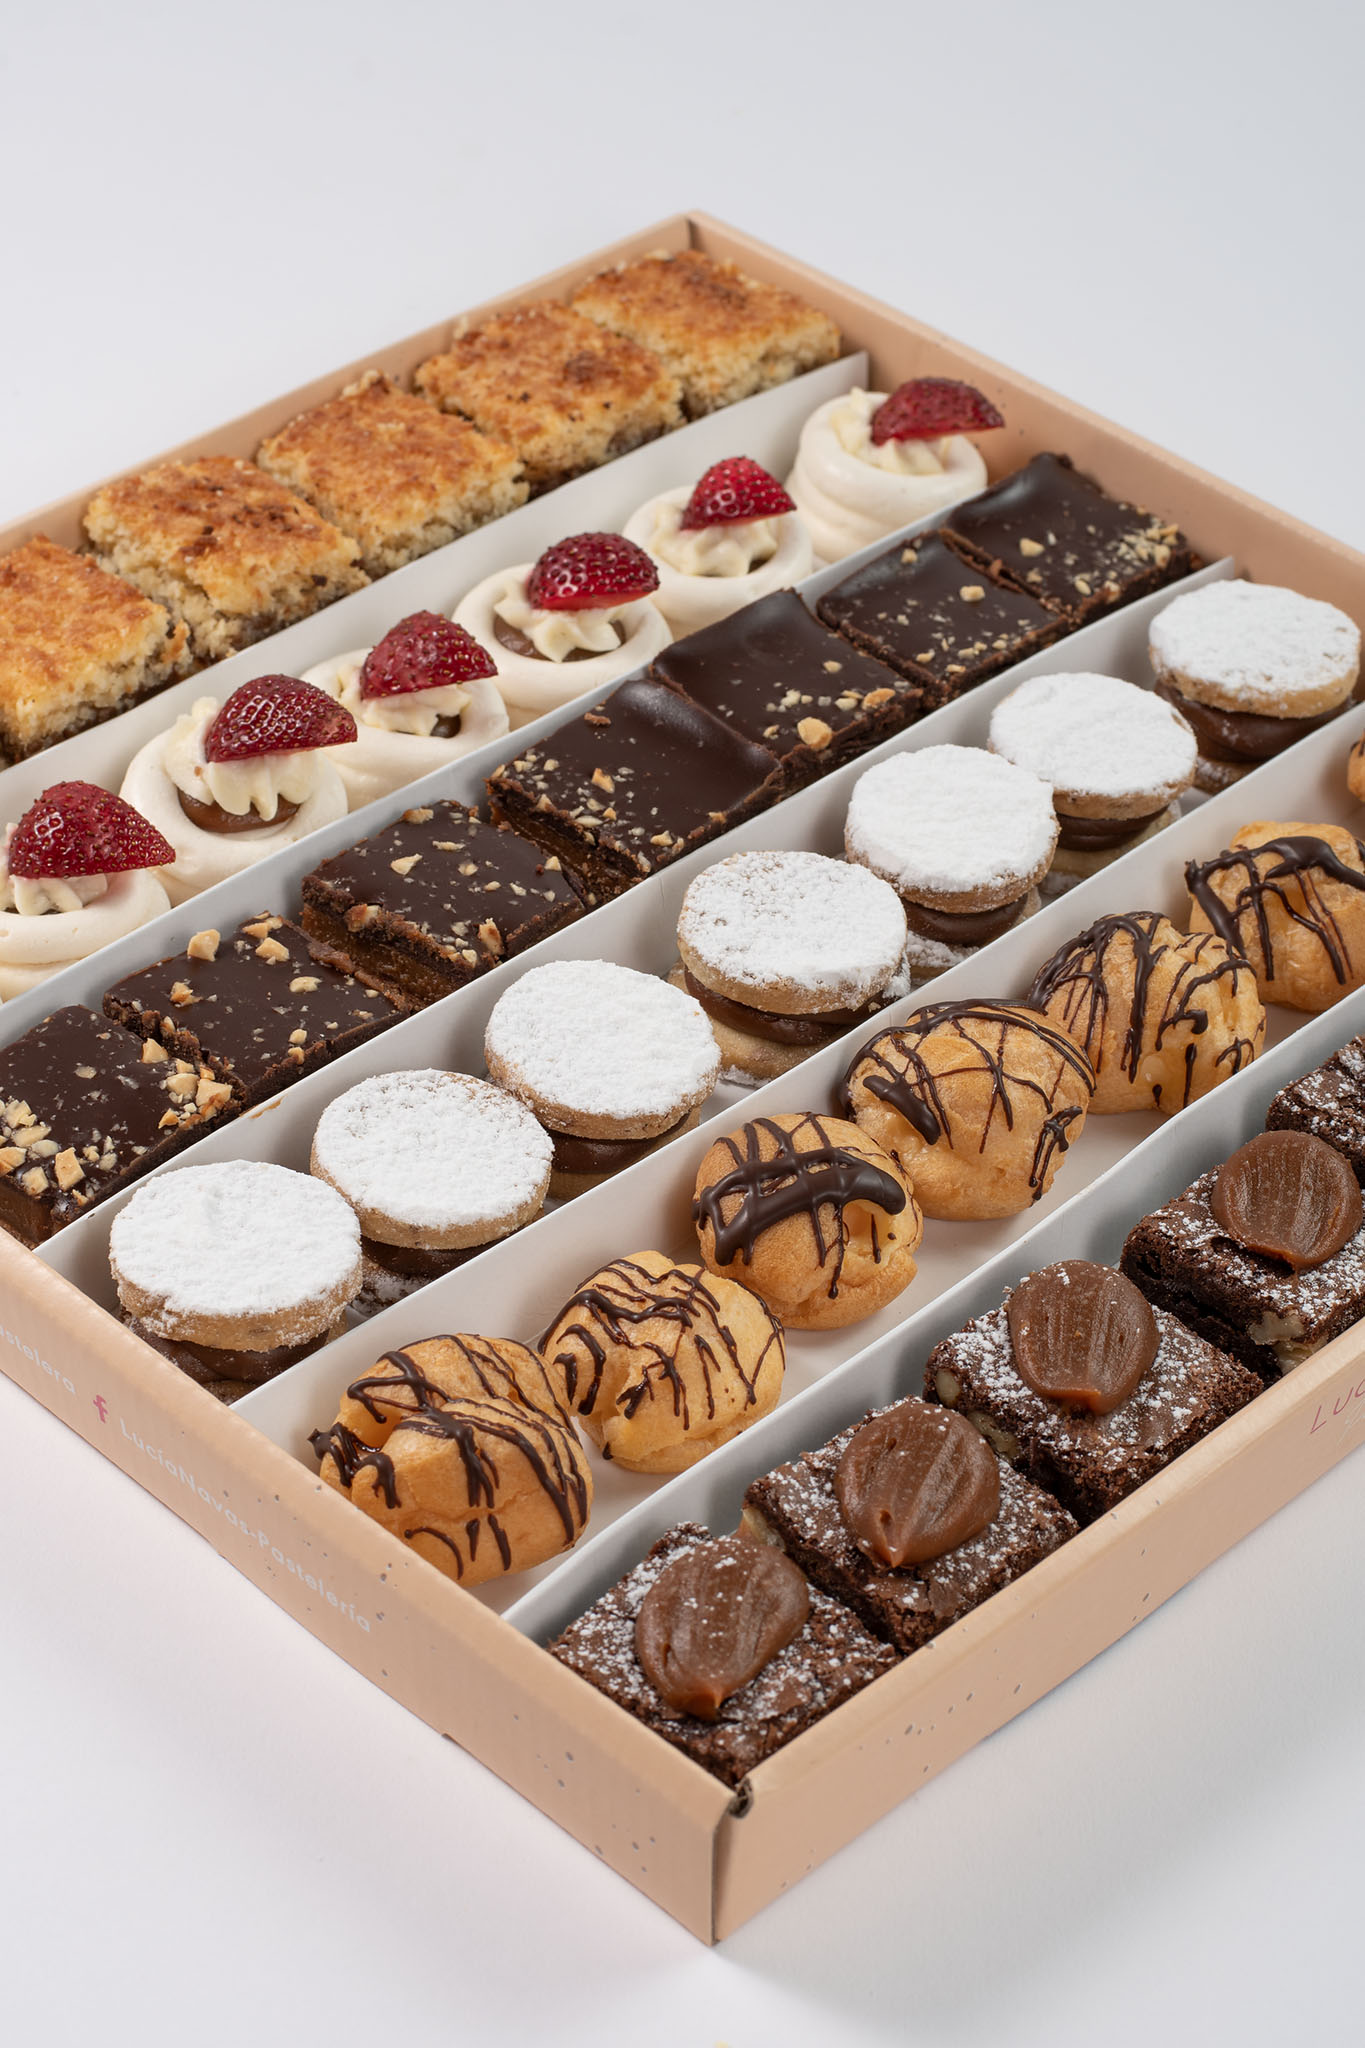
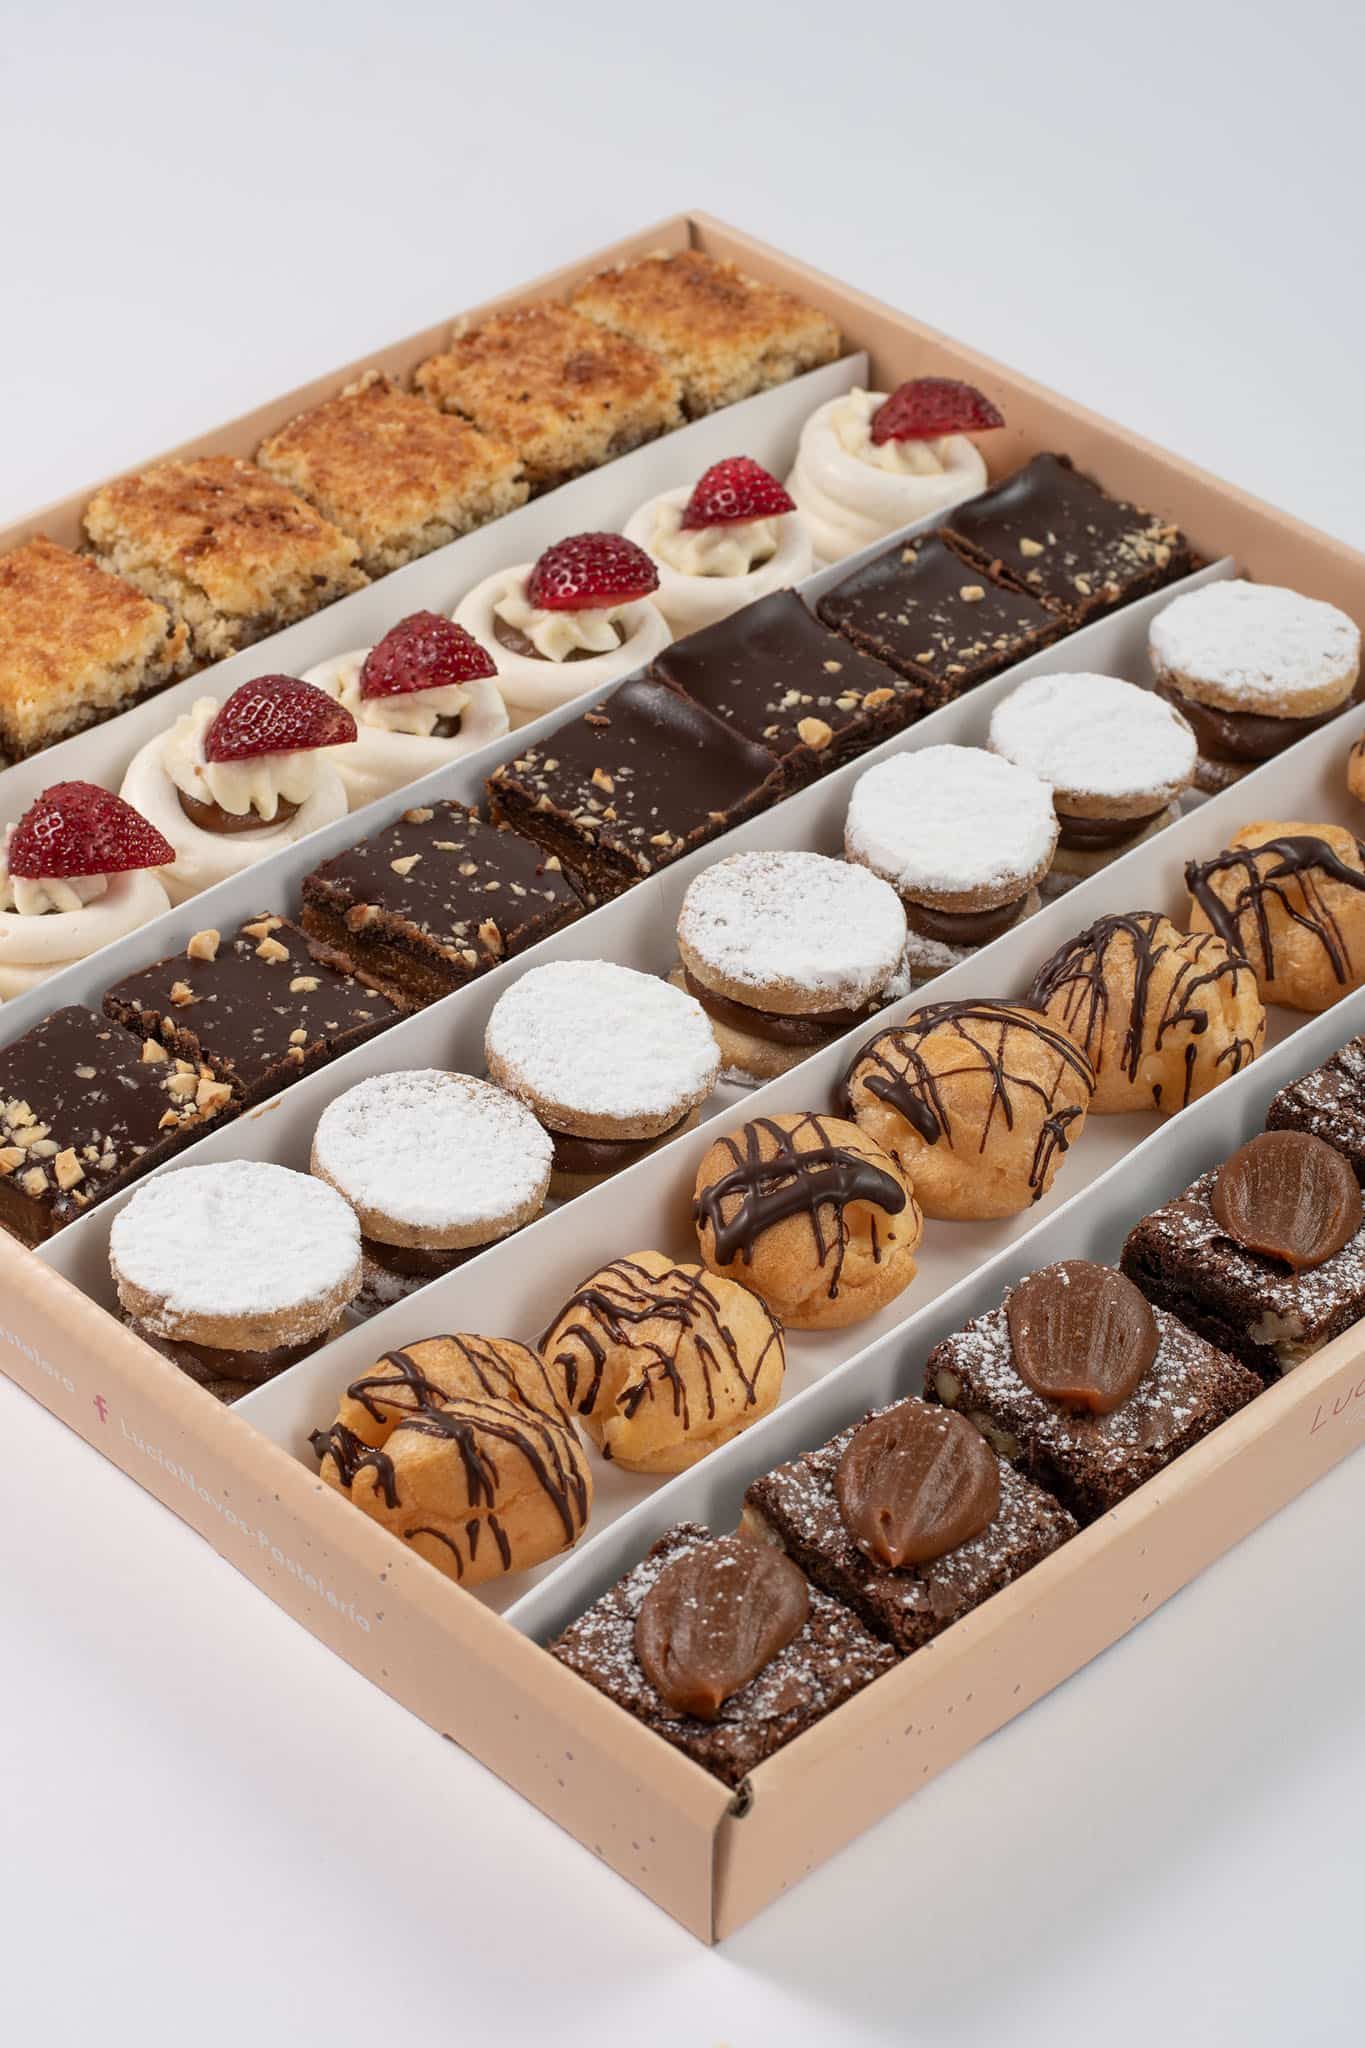
bajando peso a las imagenes

diff --git a/styles/main.css b/styles/main.css
@@ -151,6 +151,9 @@ main{
 
 .producto-imagen{
     max-width: 100%;
+    height: 200px;
+    width: 200px
+    object-fit: cover;
     border-radius: 1rem;
 }
 
